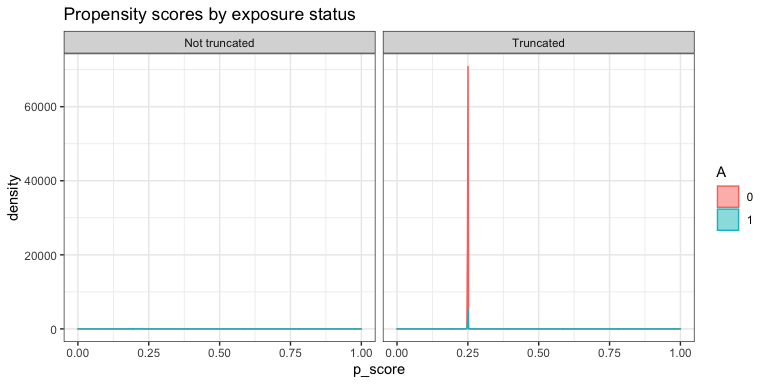
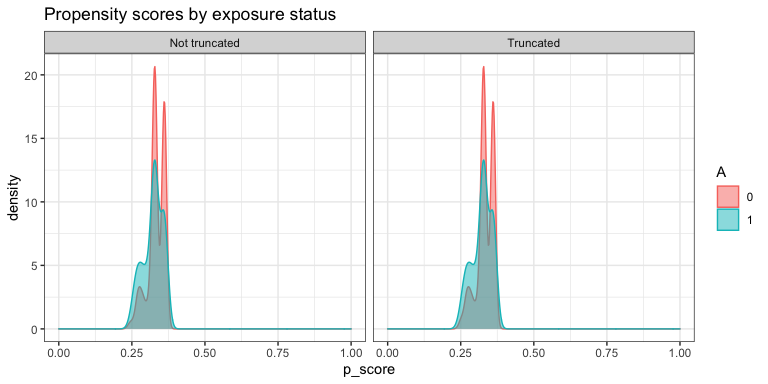
change calculate_result() to summary(); add aipw_wrapper()

diff --git a/README.md b/README.md
@@ -53,13 +53,13 @@ remotes::install_github("yqzhong7/AIPW")
 ``` r
 set.seed(888)
 N <- 200
-outcome <- rbinom(N,1,0.3)
-exposure <- rbinom(N,1,0.2)
+outcome <- rbinom(N,1,0.4)
+exposure <- rbinom(N,1,0.3)
 #covariates for both outcome model (Q) and exposure model (g)
 covariates <- matrix(c(rbinom(N,1,0.4),
-                                rnorm(N,mean = 0,sd=1),
-                                rpois(N,lambda = 2)),
-                              ncol=3)
+                       rnorm(N,mean = 0,sd=1),
+                       rpois(N,lambda = 2)),
+                     ncol=3)
 
 # covariates <- c(rbinom(N,1,0.4)) #a vector of a single covariate is also supported
 ```
@@ -75,24 +75,42 @@ library(SuperLearner)
 #> Package created on 2019-10-27
 library(ggplot2)
 library(progressr) #for the progress bar
-AIPW_SL <- AIPW$new(Y= outcome,
-                    A= exposure,
-                    W=covariates, 
+AIPW_SL <- AIPW$new(Y = outcome,
+                    A = exposure,
+                    W = covariates, 
                     Q.SL.library = c("SL.mean","SL.glm"),
                     g.SL.library = c("SL.mean","SL.glm"),
                     k_split = 3,
-                    verbose=TRUE)$
+                    verbose=FALSE)$
   fit()$
-  calculate_result(g.bound = 0.25)$
+  summary(g.bound = 0.25)$
   plot.p_score()
-#> Done!
-#>                 Estimate    SE 95% LCL 95% UCL   N
-#> Risk Difference   -0.253 0.132 -0.5126   0.006 200
-#> Risk Ratio         0.417 0.394  0.1927   0.903 200
-#> Odds Ratio         0.288 0.600  0.0888   0.934 200
 ```
 
 ![](man/figures/one_line-1.png)<!-- -->
+
+To see the results, use `verbose = TRUE` option or:
+
+``` r
+AIPW_SL$result
+#>                   Estimate        SE    95% LCL    95% UCL   N
+#> Risk Difference -0.1319084 0.1076637 -0.3429293 0.07911247 200
+#> Risk Ratio       0.7280326 0.2528325  0.4435427 1.19499521 200
+#> Odds Ratio       0.5795789 0.4451837  0.2421946 1.38694937 200
+```
+
+You can also use the `aipw_wrapper()` to wrap `new()`, `fit()` and
+`summary()` together (also support method chaining):
+
+``` r
+AIPW_SL <- aipw_wrapper(Y = outcome,
+                        A = exposure,
+                        W = covariates, 
+                        Q.SL.library = c("SL.mean","SL.glm"),
+                        g.SL.library = c("SL.mean","SL.glm"),
+                        k_split = 3,
+                        verbose=TRUE)$plot.p_score()
+```
 
 ## <a id="par"></a>Parallelization with `future.apply`
 
@@ -117,18 +135,18 @@ future::plan(multiprocess, workers=2, gc=T)
 #> how to control forked processing or not, and how to silence this warning in
 #> future R sessions, see ?future::supportsMulticore
 set.seed(888)
-AIPW_SL <- AIPW$new(Y= outcome,
-                    A= exposure,
-                    W=covariates, 
+AIPW_SL <- AIPW$new(Y = outcome,
+                    A = exposure,
+                    W = covariates, 
                     Q.SL.library = c("SL.mean","SL.glm"),
                     g.SL.library = c("SL.mean","SL.glm"),
                     k_split = 3,
-                    verbose=TRUE)$fit()$calculate_result()
+                    verbose=TRUE)$fit()$summary()
 #> Done!
 #>                 Estimate    SE 95% LCL 95% UCL   N
-#> Risk Difference   -0.315 0.167 -0.6425  0.0116 200
-#> Risk Ratio         0.357 0.479  0.1395  0.9132 200
-#> Odds Ratio         0.220 0.759  0.0498  0.9766 200
+#> Risk Difference   -0.153 0.112  -0.372  0.0665 200
+#> Risk Ratio         0.701 0.259   0.422  1.1640 200
+#> Odds Ratio         0.534 0.469   0.213  1.3377 200
 ```
 
 ## <a id="tmle"></a>Use `tmle`/`tmle3` fitted object as input (`AIPW_tmle` class)
@@ -154,18 +172,18 @@ require(tmle)
 #> 
 #> Use tmleNews() to see details on changes and bug fixes
 require(SuperLearner)
-tmle_fit <- tmle(Y=outcome,A=exposure,W=covariates,
+tmle_fit <- tmle(Y = outcome, A = exposure,W = covariates,
                  Q.SL.library=c("SL.mean","SL.glm"),
                  g.SL.library=c("SL.mean","SL.glm"),
                  family="binomial")
 AIPW_tmle$
   new(A=exposure,Y=outcome,tmle_fit = tmle_fit,verbose = TRUE)$
-  calculate_result(g.bound=0.025)
+  summary(g.bound=0.025)
 #> Sample splitting was not supported with a fitted tmle object
 #>                 Estimate    SE 95% LCL 95% UCL   N
-#> Risk Difference   -0.214 0.158 -0.5235  0.0961 200
-#> Risk Ratio         0.438 0.522  0.1575  1.2177 200
-#> Odds Ratio         0.326 0.752  0.0745  1.4231 200
+#> Risk Difference   -0.129 0.106  -0.337  0.0778 200
+#> Risk Ratio         0.720 0.259   0.433  1.1975 200
+#> Odds Ratio         0.580 0.442   0.244  1.3809 200
 ```
 
 #### 2\. `tmle3`
@@ -193,10 +211,10 @@ tmle3_fit <- tmle3(or_spec, data=df, node_list, learner_list)
 # parse tmle3_fit into AIPW_tmle class
 AIPW_tmle$
   new(A=df$exposure,Y=df$outcome,tmle_fit = tmle3_fit,verbose = TRUE)$
-  calculate_result()
+  summary()
 #> Propensity scores from fitted tmle3 object are by default truncated (0.025)
 #>                 Estimate    SE 95% LCL 95% UCL   N
-#> Risk Difference   -0.213 0.158 -0.5236  0.0968 200
-#> Risk Ratio         0.438 0.524  0.1570  1.2240 200
-#> Odds Ratio         0.326 0.755  0.0743  1.4320 200
+#> Risk Difference   -0.129 0.106  -0.336  0.0784 200
+#> Risk Ratio         0.721 0.260   0.433  1.1997 200
+#> Odds Ratio         0.581 0.443   0.244  1.3843 200
 ```
